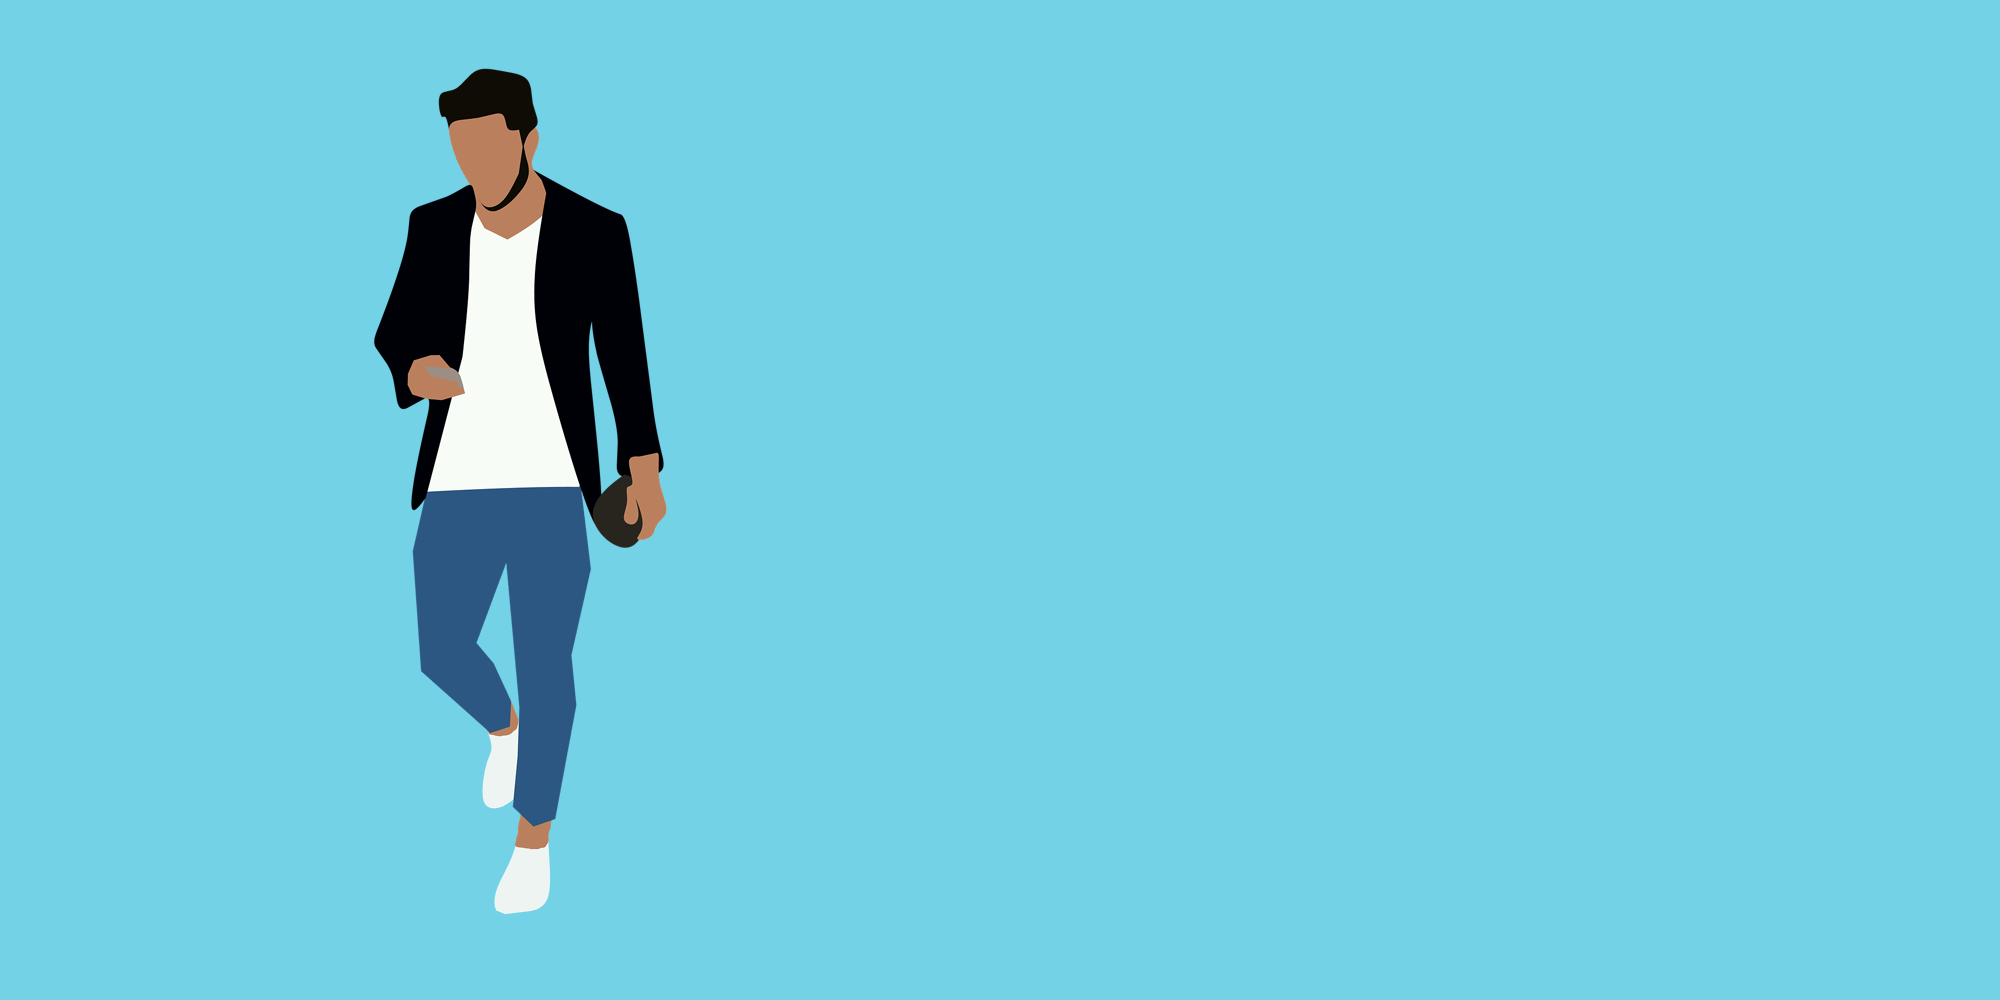
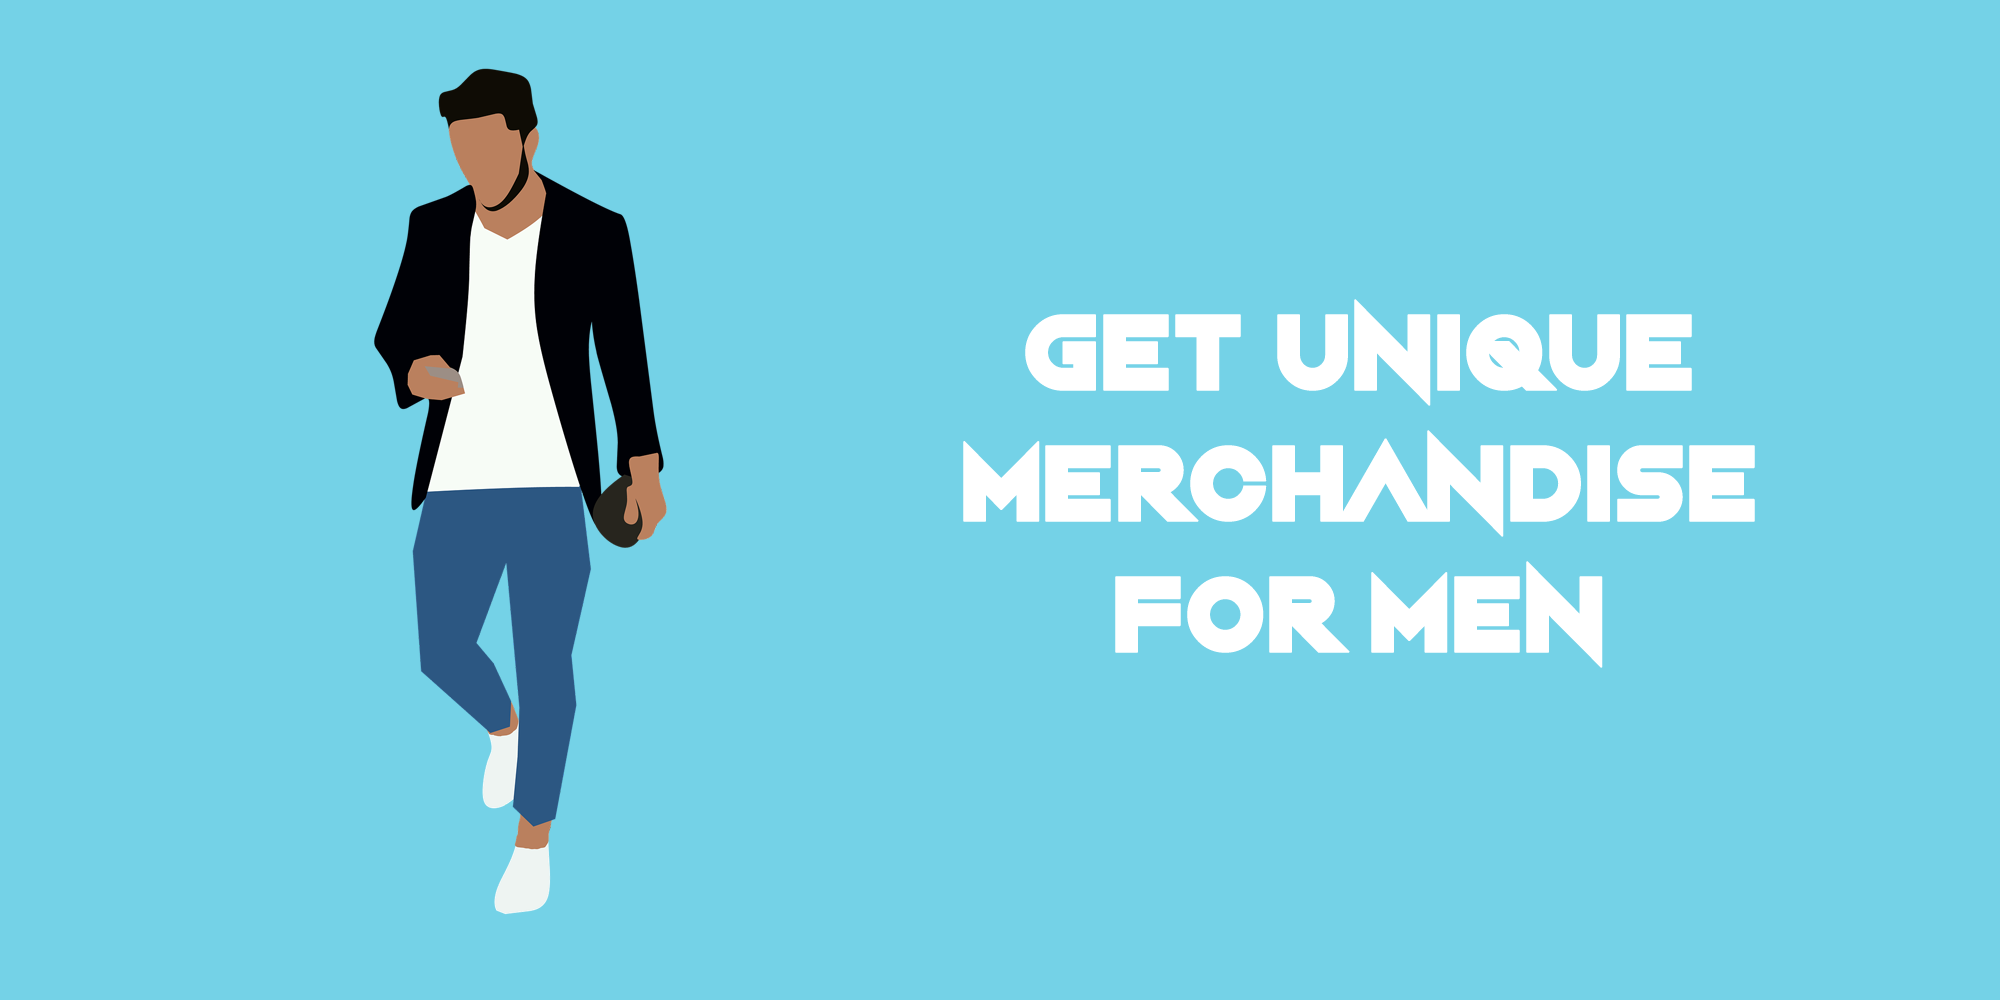
Home Page

Changed region(s): [[0.465, 0.434, 0.899, 0.527], [0.496, 0.31, 0.868, 0.403], [0.558, 0.558, 0.806, 0.651]]

diff --git a/src/app/home/home.component.html b/src/app/home/home.component.html
@@ -6,17 +6,17 @@
     <div class="carousel-inner">
       <div class="carousel-item active">
         <img src="../../assets/images/menBannerSlider.png" class="d-block w-100" alt="...">
-        <div class="carousel-caption d-none d-md-block">
+        <!-- <div class="carousel-caption d-none d-md-block">
             <h5>Men</h5>
             <p>Get Men's Unique Merchandise</p>
-          </div>
+          </div> -->
       </div>
       <div class="carousel-item">
         <img src="../../assets/images/womenBannerSlider.png" class="d-block w-100" alt="...">
-        <div class="carousel-caption d-none d-md-block">
+        <!-- <div class="carousel-caption d-none d-md-block">
             <h5>Women</h5>
             <p>Get Women's Unique Merchandise</p>
-          </div>
+          </div> -->
       </div>
 
     </div>

diff --git a/src/app/navbar/navbar.component.html b/src/app/navbar/navbar.component.html
@@ -5,7 +5,7 @@
             <!-- nav -->
             <div class="top-w3pvt d-flex">
                 <div id="logo">
-                    <h1> <a href="index.html"><span class="log-w3pvt">G</span>et<span class="log-w3pvt">U</span>nique <span class="log-w3pvt">M</span>erchandise</a> <label class="sub-des">Online Store</label></h1>
+                    <h1> <a href="index.html"><span class="log-w3pvt">G</span>et<span class="log-w3pvt"> U</span>nique <span class="log-w3pvt">M</span>erchandise</a> <label class="sub-des">Online Store</label></h1>
                 </div>
 
                 <div class="forms ml-auto">

diff --git a/src/app/home/home.component.css b/src/app/home/home.component.css
@@ -1,0 +1,6 @@
+.carousel-inner .carousel-item {
+    transition: -webkit-transform 2s ease;
+    transition: transform 2s ease;
+    transition: transform 2s ease, -webkit-transform 2s ease;
+    transition-duration: 1.5s;
+  }
